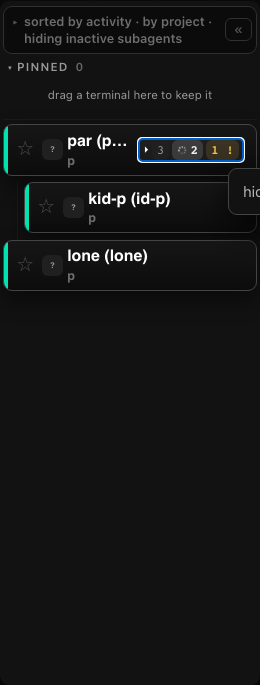
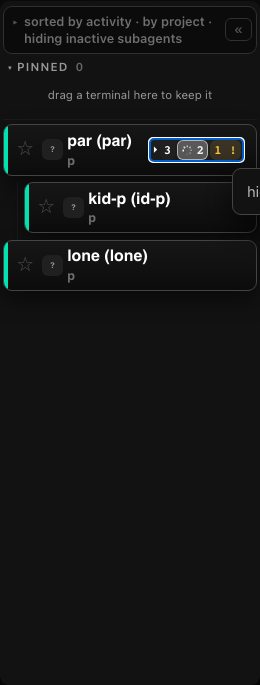
folded parent chips: bolder count, stronger running chip, tighter button

Changed region(s): [[0.4308, 0.1839, 0.8615, 0.2453], [0.8615, 0.2146, 1.0, 0.3066]]

diff --git a/internal/api/web/css/sharing.css b/internal/api/web/css/sharing.css
@@ -478,8 +478,8 @@
   }
   /* The fold button on a parent row. Folded, it carries the count of the cards it hides. */
   .tkidfold {
-    display: inline-flex; align-items: center; gap: 3px; flex: none;
-    background: none; border: 0; padding: 1px 4px; border-radius: 4px;
+    display: inline-flex; align-items: center; gap: 2px; flex: none;
+    background: none; border: 0; padding: 1px 2px; border-radius: 4px;
     color: var(--dim, inherit); font: inherit; font-size: 11px; cursor: pointer;
   }
   .tkidfold:hover, .tkidfold:focus-visible { background: var(--lift); color: var(--head); }
@@ -487,10 +487,10 @@
      line-height keeps a parent row as tall as one without a fold button. The running chip wears the teal the live
      badge does and carries the same spinner the runner mark shows, so a folded parent never reads as idle while a
      child works. */
-  .tkidfold .chip { padding: 0 4px; line-height: 1.35; display: inline-flex; align-items: center; gap: 3px; }
-  .tkidfold .tkidrun { background: rgba(var(--teal-rgb),.14); color: var(--teal); font-weight: 600; }
-  .tkidfold .tkidwait { font-weight: 600; }
-  .tkidspin { width: 10px; height: 10px; flex: none; background: url("/working.gif") center / contain no-repeat; }
+  .tkidfold .chip { padding: 0 3px; line-height: 1.35; display: inline-flex; align-items: center; gap: 3px; font-weight: 600; }
+  .tkidfold .tkidn { color: var(--head); }
+  .tkidfold .tkidrun { background: rgba(var(--teal-rgb),.28); border-color: rgba(var(--teal-rgb),.6); color: var(--teal); }
+  .tkidspin { width: 12px; height: 12px; flex: none; background: url("/working.gif") center / contain no-repeat; }
   /* A heading is a button, and only as wide as the thing you press. On the board's group headings the whole
      width toggles, so clicking what looks like empty space beside a name folds what you were reading. Here the
      caret and the name are the control, and the rule filling the rest of the row is decoration outside it. */

diff --git a/REPORT.md b/REPORT.md
@@ -13,6 +13,11 @@ Folded parent rows now show a count chip, a running chip (spinner) and a needs-y
 See the item file. Count is now the total under the row (was hidden only). Running and waiting count at any depth.
 Cost: the parent name truncates sooner on a narrow strip when all three chips show.
 
+## Review round
+- Count chip is bold in the head colour, no longer grey. The running chip has a stronger teal fill and border and a
+  12px spinner. Button padding and gaps are tighter, so the parent name shows in full in the shot ("par (par)").
+- Retaken `after-folded.png` (same fixture). childFold, childUnderParent and ctxLine headless sections pass.
+
 ## Tests
 `NODE_PATH=<atrium>/node_modules HEADLESS_ONLY=childFold,childUnderParent,ctxLine node scripts/test-board-headless.js`
 passes. The same childFold test fails on the old code (count, waiting, running), as it should.
